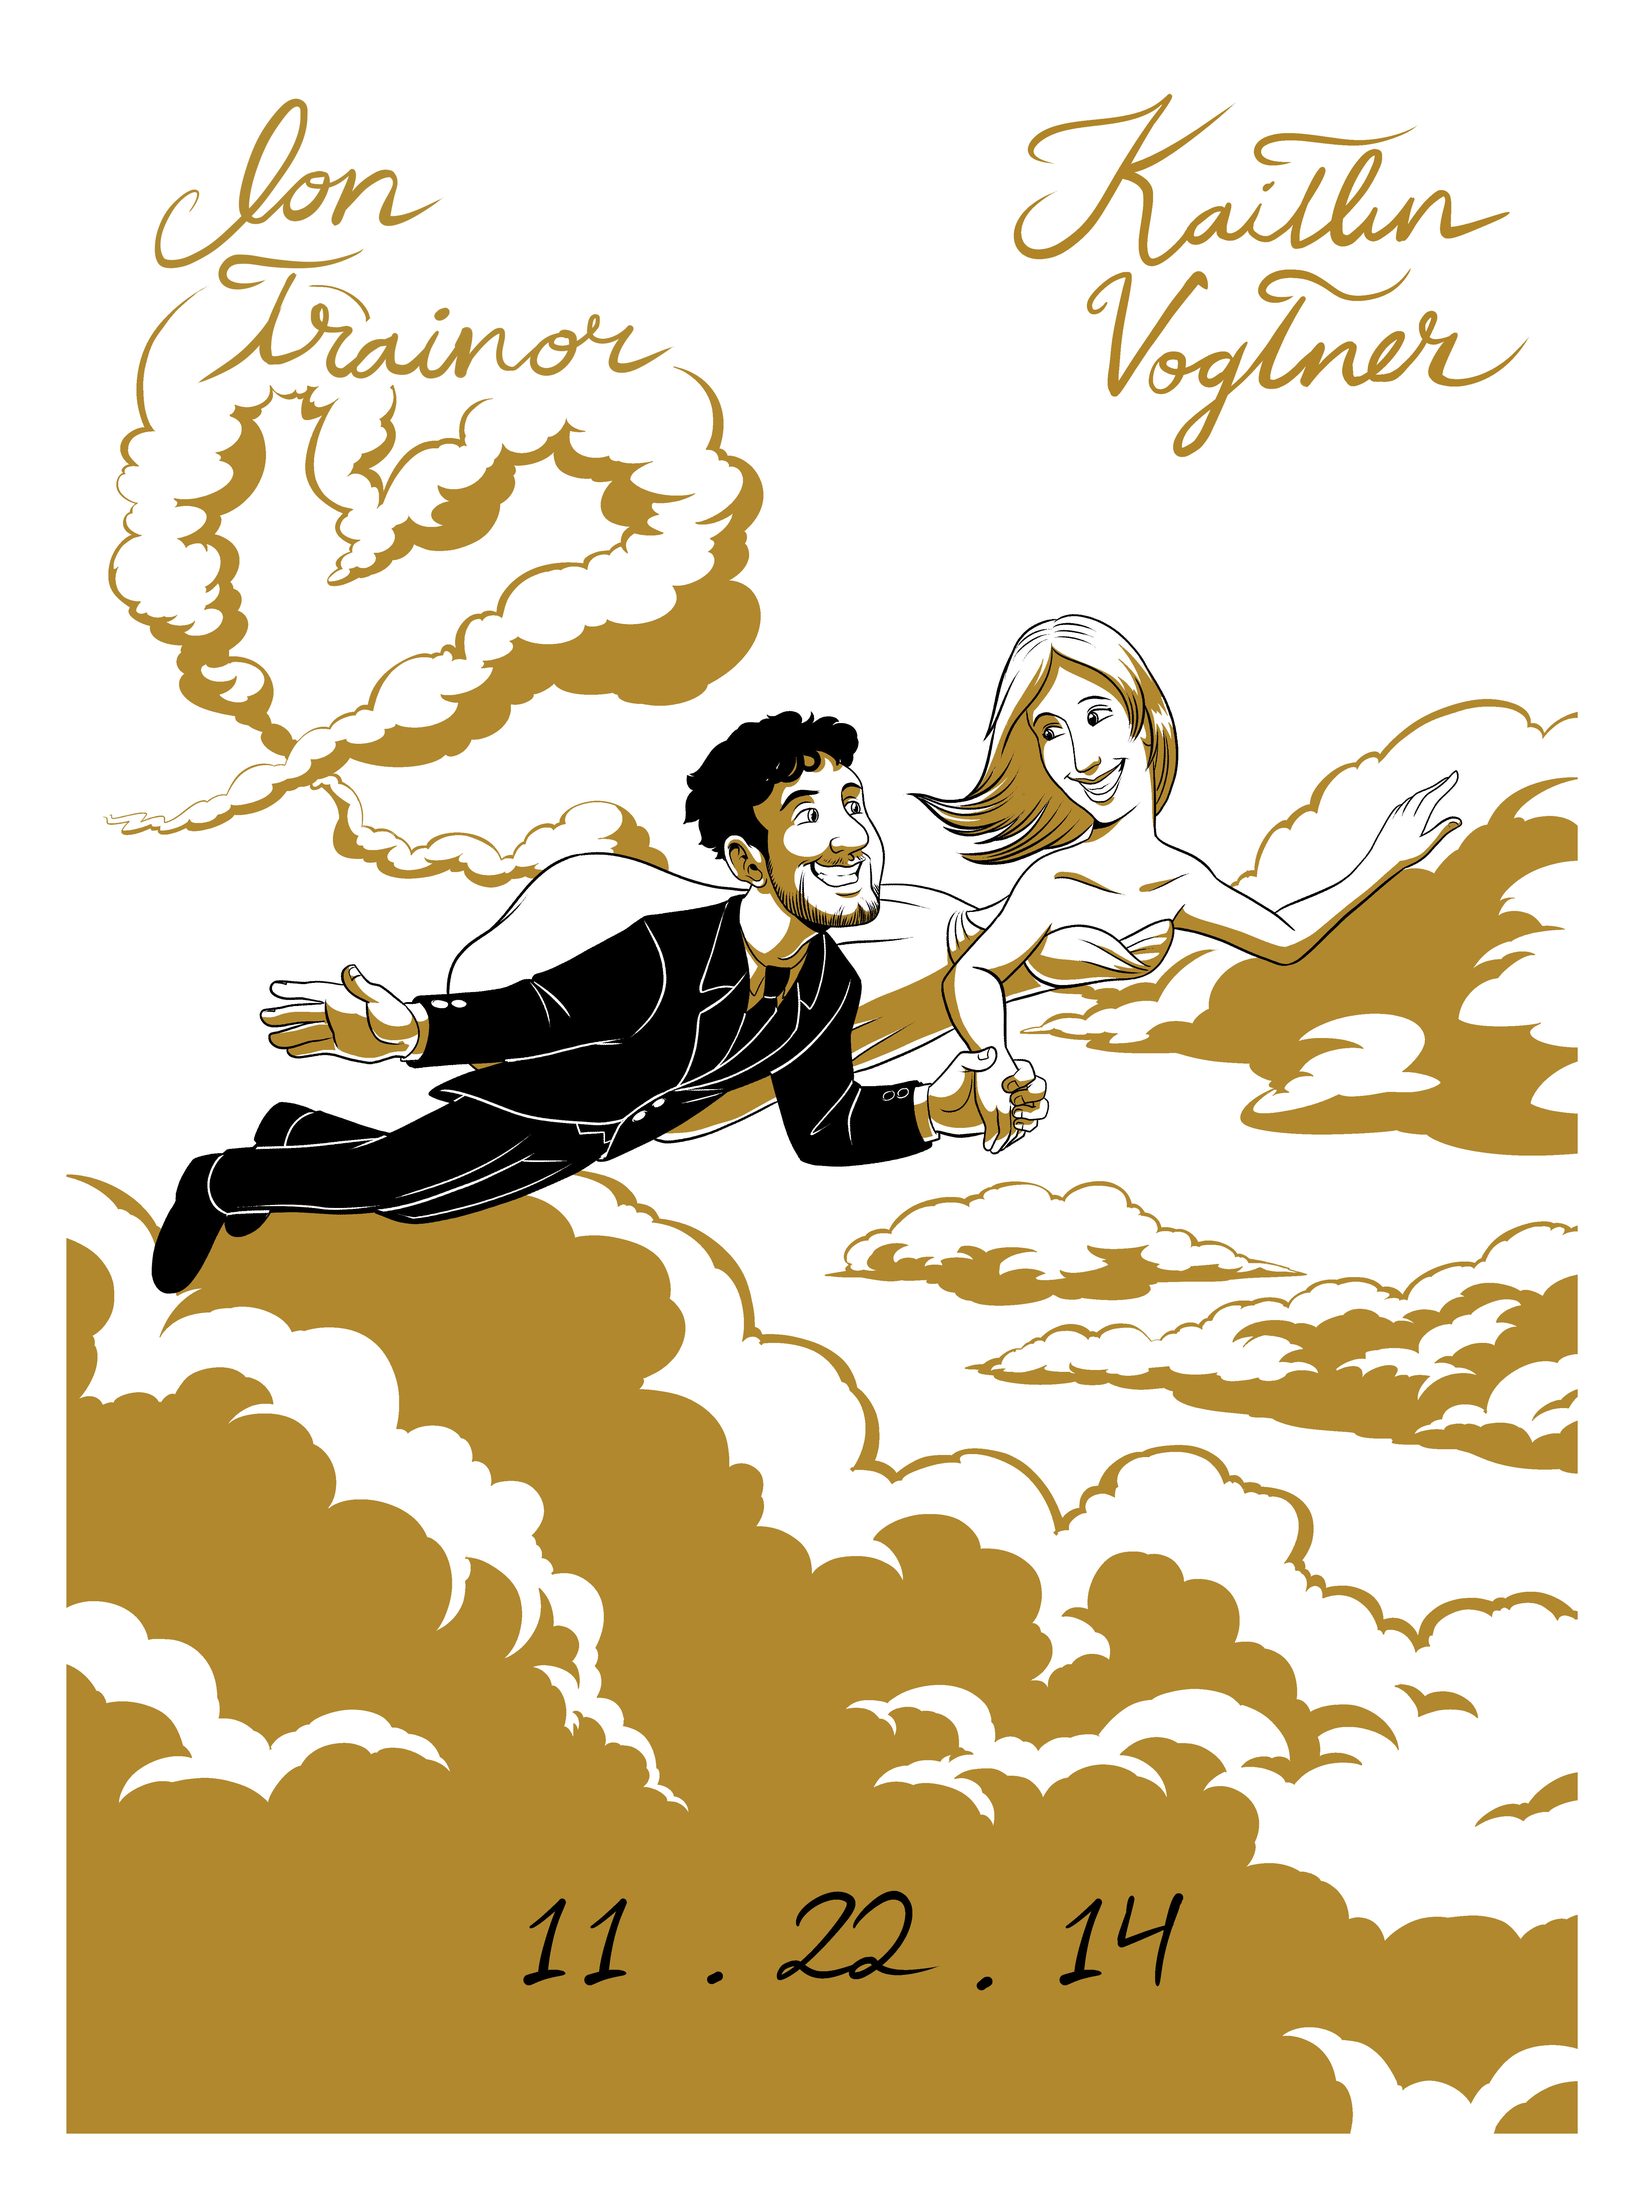
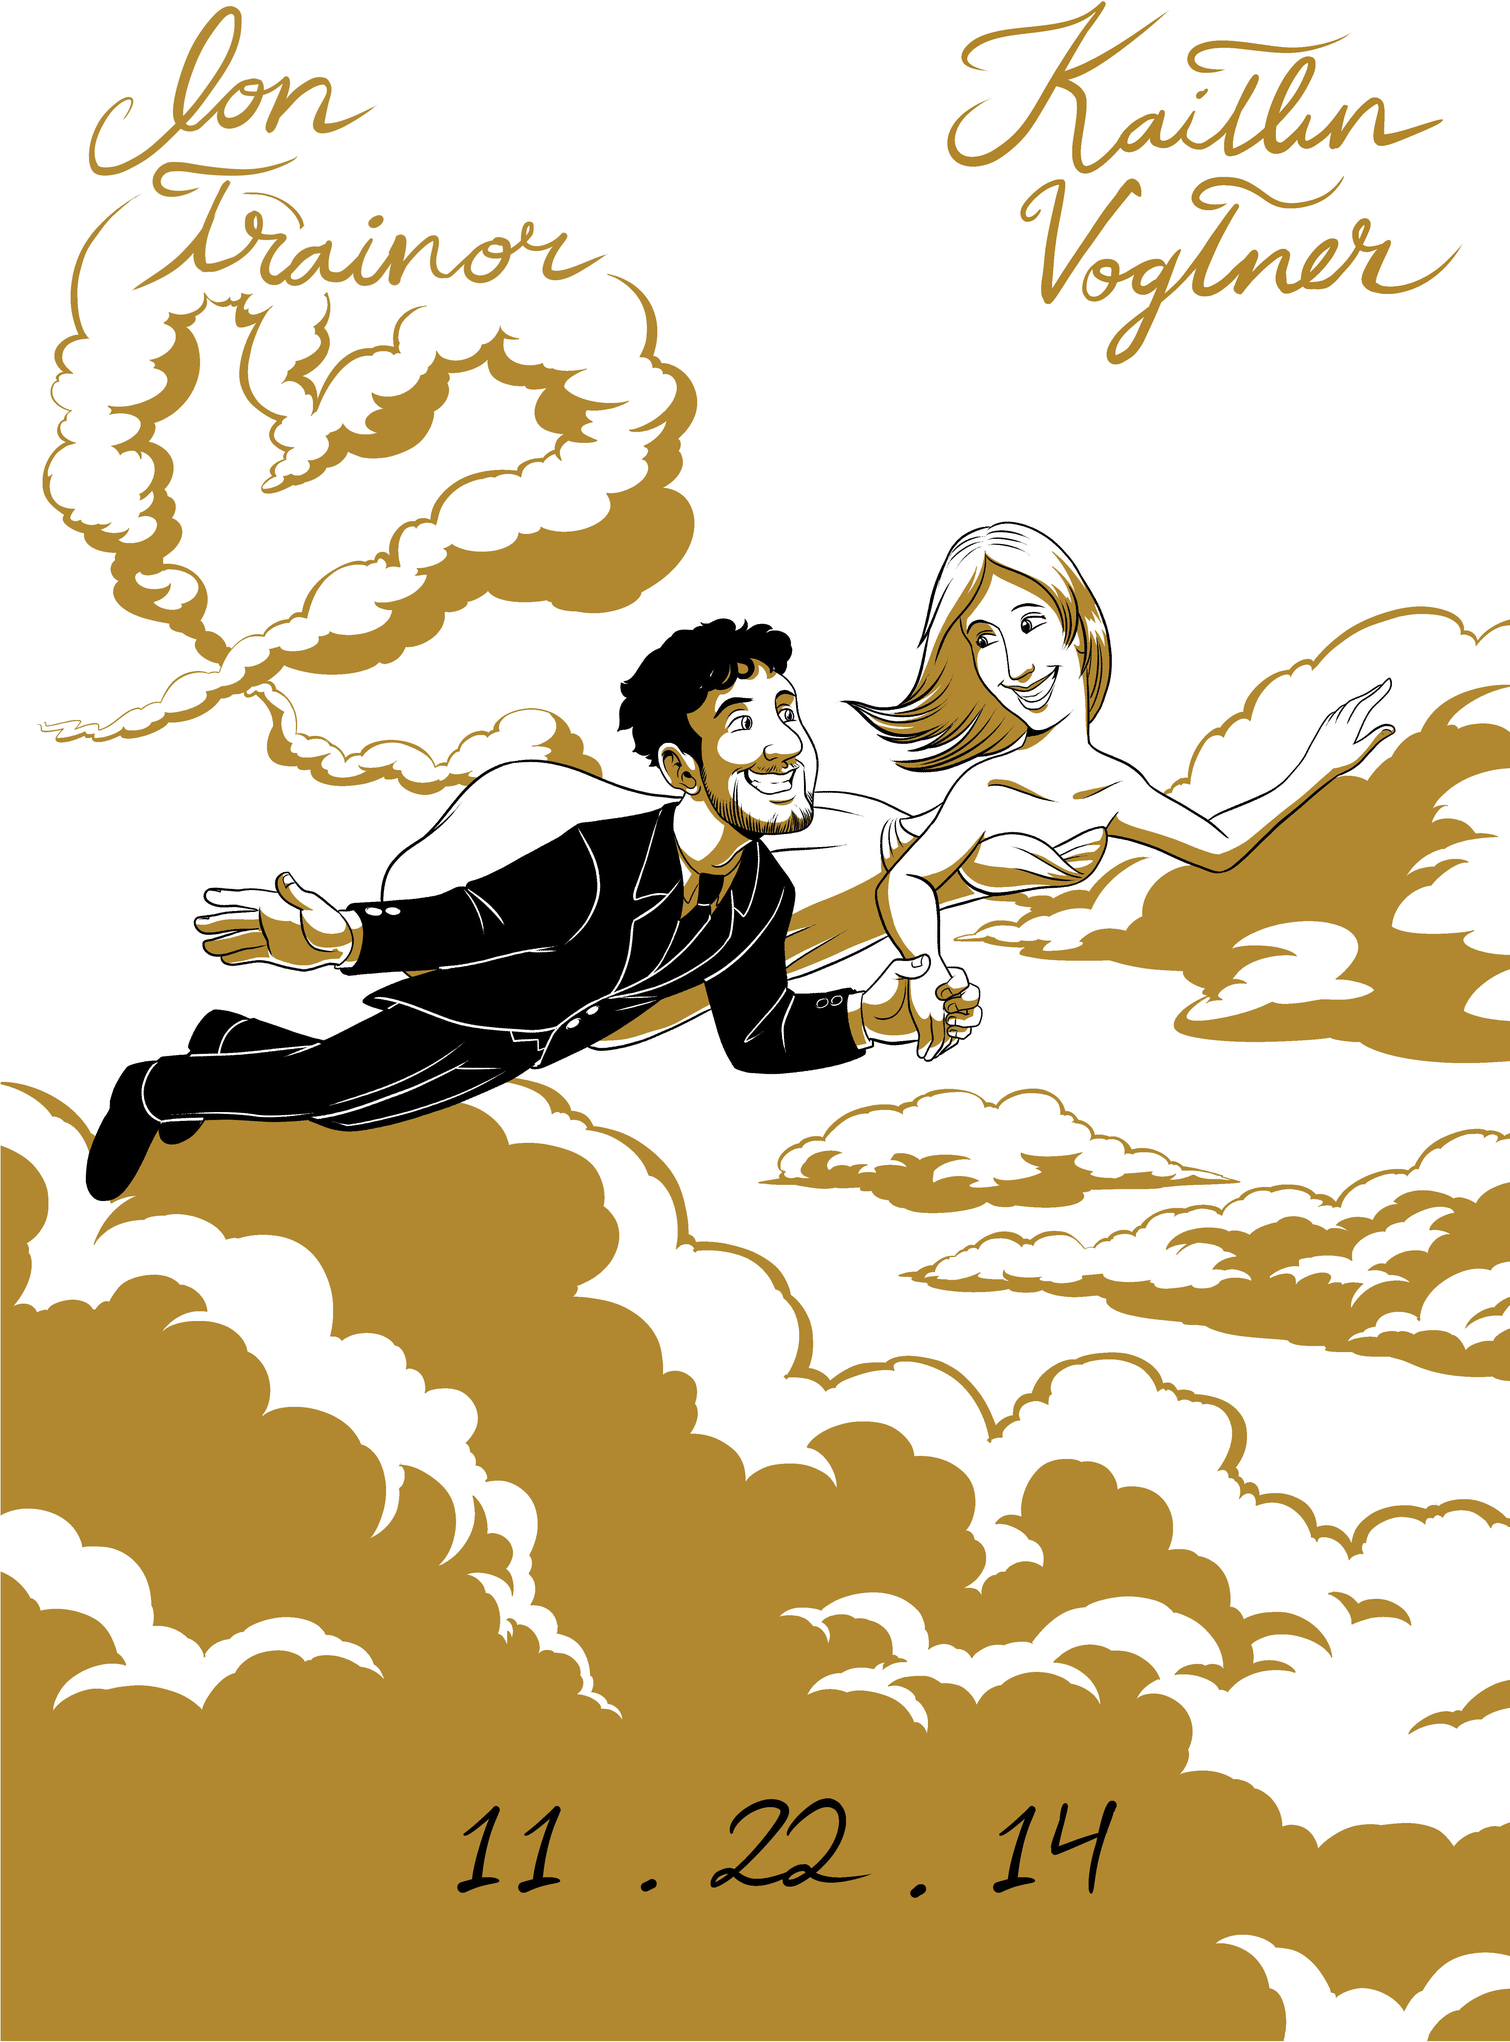
clipped border out of image so it could be implemented in css instead. styled a frame around the image. set up compass to compile sass to css.

diff --git a/sass/main.scss b/sass/main.scss
@@ -1,0 +1,76 @@
+
+body {
+	background-color:#FFB719
+}
+
+.posterContainer {
+	height: 644px;
+	width: 494px;
+	background-color: #FFF;
+	margin: 0px auto;
+
+	// frame styles
+	border:solid 15px #8609B2; 
+	margin:40px auto;
+	box-shadow:-3px -3px 12px #999;
+
+	img.poster {
+		height: 600px;
+		width: 450px;
+		margin: 20px;
+		border-top:solid 2px #aaa;
+		border-left:solid 2px #aaa;
+		border-bottom:solid 2px #ccc;
+		border-right:solid 2px #ccc;
+	}
+
+	// .posterMatte {
+	// 	position: absolute;
+	// 	top: 39px; //24 + 15
+	// 	left: 32px; //17 + 15
+	// 	height: 558px;
+	// 	width: 412px;
+	// 	border-top:solid 2px #aaa;
+	// 	border-left:solid 2px #aaa;
+	// 	border-bottom:solid 2px #ccc;
+	// 	border-right:solid 2px #ccc;
+	// }
+
+	// img.poster {
+	// 	display: block;
+	// 	width: 100%;
+	// 	height: auto;
+	// 	border:solid 15px #8609B2; 
+	// 	margin:40px auto;
+	// 	box-shadow:-3px -3px 12px #999;
+	// }
+}
+
+
+// #frame {
+// 	position:relative;
+// 	padding:0;
+// 	margin:0;
+// 	border:solid 15px #003DB2; 
+// 	max-width:600px;
+// 	margin:40px auto;
+// 	box-shadow:-3px -3px 12px #999;
+// }
+// #border {
+// 	position:relative;
+// 	padding:0;
+// 	margin:0;
+// 	border:solid 1px white;
+// 	box-shadow:-3px -3px 12px #999;
+// }  
+// img {
+// 	display:block;
+// 	padding:0;
+// 	margin:0;
+// 	width:100%;
+// 	height:auto;
+// 	border-top:solid 2px #aaa;
+// 	border-left:solid 2px #aaa;
+// 	border-bottom:solid 2px #ccc;
+// 	border-right:solid 2px #ccc;
+// }

diff --git a/css/main.css b/css/main.css
@@ -1,0 +1,25 @@
+/* line 2, ../sass/main.scss */
+body {
+  background-color: #ffb719;
+}
+
+/* line 6, ../sass/main.scss */
+.posterContainer {
+  height: 644px;
+  width: 494px;
+  background-color: #FFF;
+  margin: 0px auto;
+  border: solid 15px #8609B2;
+  margin: 40px auto;
+  box-shadow: -3px -3px 12px #999;
+}
+/* line 17, ../sass/main.scss */
+.posterContainer img.poster {
+  height: 600px;
+  width: 450px;
+  margin: 20px;
+  border-top: solid 2px #aaa;
+  border-left: solid 2px #aaa;
+  border-bottom: solid 2px #ccc;
+  border-right: solid 2px #ccc;
+}

diff --git a/index.html b/index.html
@@ -1,6 +1,13 @@
 <!doctype html>
 <html>
+<head>
+	<title>Jon & Kaitlin's Wedding - 2014.11.22</title>
+	<link rel="stylesheet" href="css/main.css">
+</head>
 <body>
-	<img src='jonkaitlinposter.jpg' height="600" width="450"></img>
+	<div class="posterContainer">
+		<div class="posterMatte"></div>
+		<img class="poster" src='jonkaitlinposter.jpg' alt="Drawing of Jon and Kaitlin with the date November 22, 2014"></img>
+	</div>
 </body>
 </html>

diff --git a/config.rb b/config.rb
@@ -1,0 +1,24 @@
+# Require any additional compass plugins here.
+
+# Set this to the root of your project when deployed:
+http_path = "/"
+css_dir = "css"
+sass_dir = "sass"
+images_dir = "img"
+javascripts_dir = "js"
+
+# You can select your preferred output style here (can be overridden via the command line):
+# output_style = :expanded or :nested or :compact or :compressed
+
+# To enable relative paths to assets via compass helper functions. Uncomment:
+# relative_assets = true
+
+# To disable debugging comments that display the original location of your selectors. Uncomment:
+# line_comments = false
+
+
+# If you prefer the indented syntax, you might want to regenerate this
+# project again passing --syntax sass, or you can uncomment this:
+# preferred_syntax = :sass
+# and then run:
+# sass-convert -R --from scss --to sass sass scss && rm -rf sass && mv scss sass
